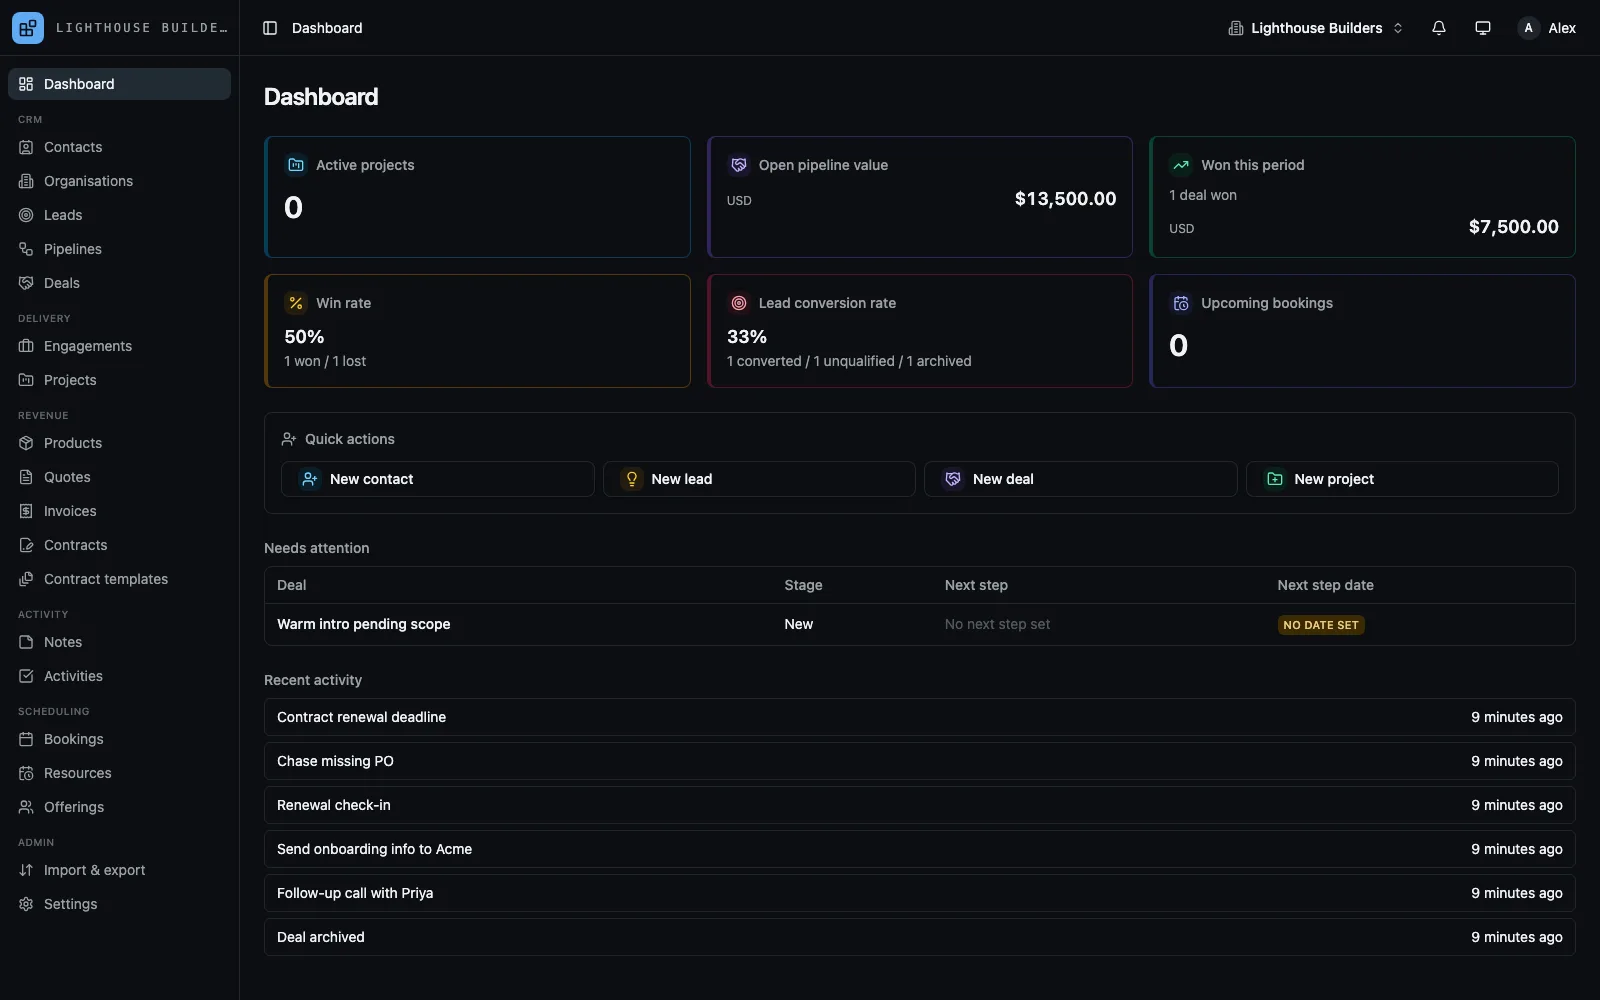
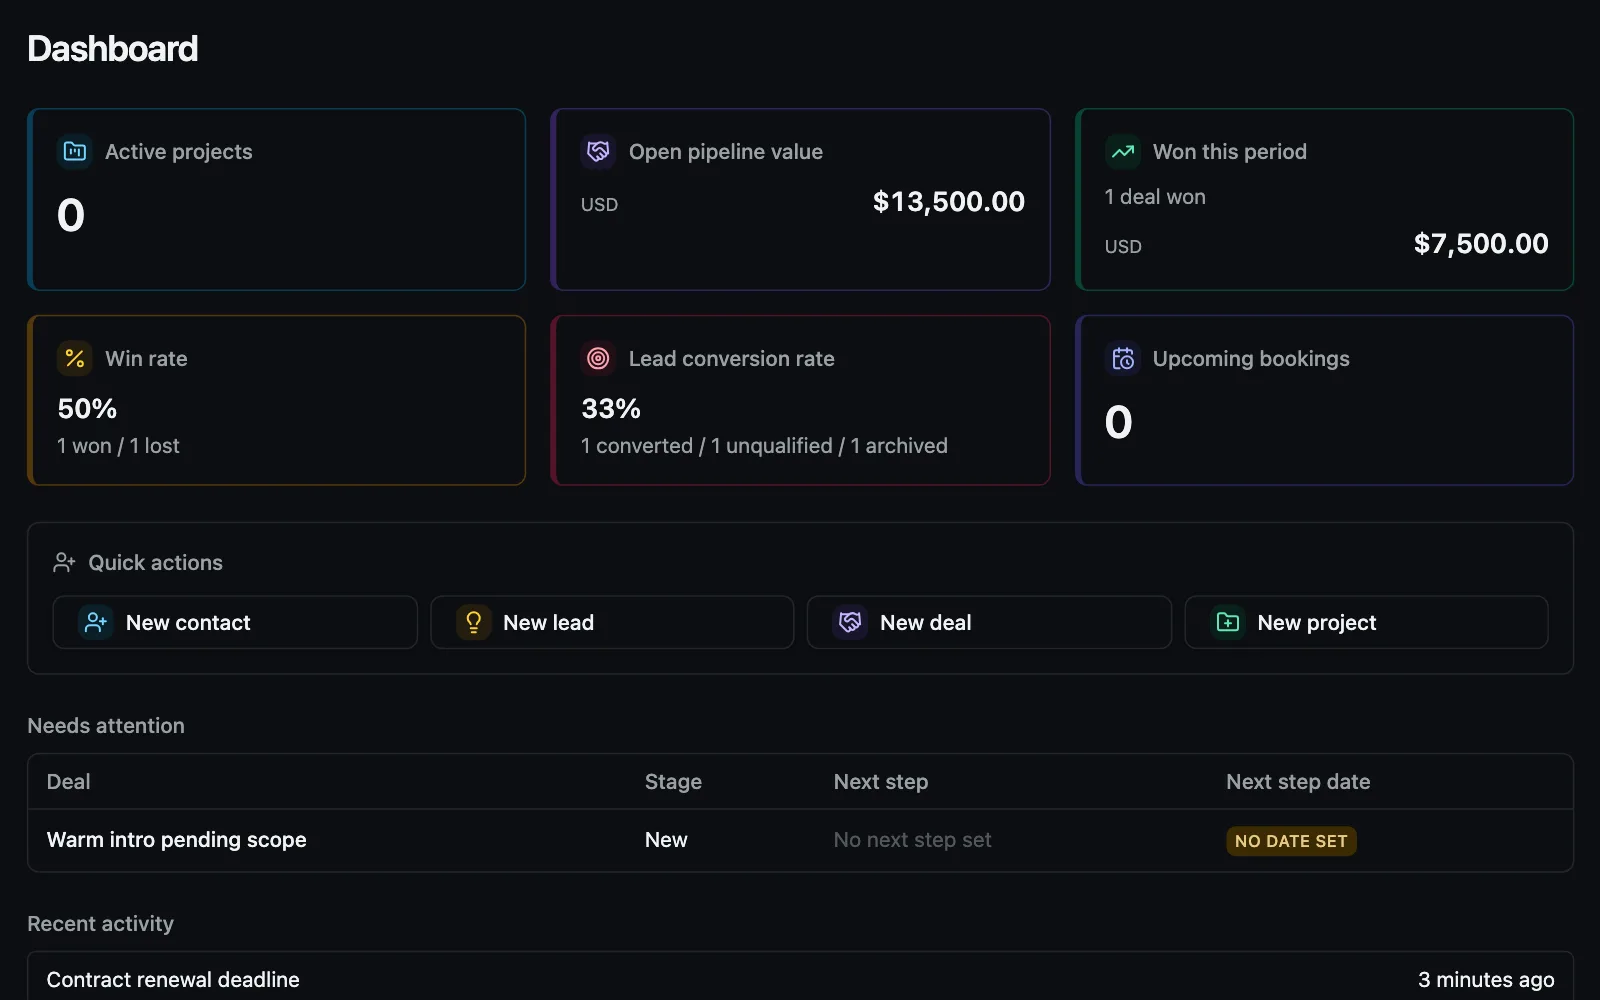
feat: zoom WriterIX and Veci CRM covers for small cards; unfeature DocMind
Crop both covers to a single panel at ~1.5x (pipeline progress + token
usage; dashboard KPI widgets) so they hold up on a 375px card, still
1600x1000. The capture script refuses WriterIX runs that show demo-mode
"fake/" model labels. DocMind moves to the More builds list.

diff --git a/data/projects.ts b/data/projects.ts
@@ -212,7 +212,7 @@ export const projects: Project[] = [
     category: 'platform',
     githubUrl: 'https://github.com/codedsultan/docmind',
     liveUrl: null,
-    isFeatured: true,
+    isFeatured: false,
     sortOrder: 4,
     year: '2025–present',
     role: 'Creator & AI Engineer',
@@ -311,10 +311,10 @@ export const projects: Project[] = [
     websiteUrl: 'https://crm.xurl.fyi/',
     demoUrl: 'https://demo-crm.xurl.fyi/',
     // Captured per docs/project-screenshots.md (scripts/capture-screenshots.mjs),
-    // from a local install seeded with fictional demo data.
+    // from a local install seeded with fictional demo data, cropped to ~1.5x.
     cover: {
       src: '/images/projects/veci-crm/cover.webp',
-      alt: 'Veci CRM dashboard for a demo workspace: KPI tiles for open pipeline value, deals won this period, win rate, lead conversion rate and upcoming bookings, quick actions for new contact, lead, deal and project, a needs-attention deal list and recent activity, with the sidebar of CRM, delivery, revenue and scheduling sections',
+      alt: 'Veci CRM dashboard, close up: KPI tiles for active projects, open pipeline value ($13,500), won this period ($7,500), win rate (50%), lead conversion rate (33%) and upcoming bookings, quick-action buttons for a new contact, lead, deal or project, and a needs-attention deal list',
       width: 1600,
       height: 1000,
     },
@@ -359,10 +359,10 @@ export const projects: Project[] = [
     websiteUrl: 'https://writerix.xurl.fyi/',
     demoUrl: 'https://demo-writerix.xurl.fyi/',
     // Captured per docs/project-screenshots.md (scripts/capture-screenshots.mjs),
-    // from a local demo-mode stack (AI calls simulated).
+    // from a local demo-mode stack (AI calls simulated), cropped to ~1.5x.
     cover: {
       src: '/images/projects/writerix/cover.webp',
-      alt: 'WriterIX run paused for final-draft review in a demo workspace: the progress list steps through research, outline, five parallel section drafts, two editor review rounds, SEO metadata, social captions and rendered graphics, beside a usage panel listing tokens per step and model',
+      alt: 'WriterIX run detail, close up: a progress list of pipeline steps (research, outline, five section drafts, two editor review rounds with scores, SEO metadata, social captions, graphic text and rendered graphics, then waiting for final-draft review) beside a usage panel showing 8,695 tokens with the Claude model and token count for each step',
       width: 1600,
       height: 1000,
     },

diff --git a/docs/project-screenshots.md b/docs/project-screenshots.md
@@ -11,8 +11,8 @@ Each image needs `src`, `alt`, `width` and `height` (the real pixel size of the 
 
 ## Capture checklist
 
-1. Capture public pages from the deployed app. Anything behind a login whose deployed instance holds real data (Veci CRM, WriterIX, InnerMost) is captured from a local stack with seeded demo data or test accounts instead; `scripts/capture-screenshots.mjs` refuses non-localhost URLs for those.
-2. Cover: exactly 16:10, 1600x1000. Cards crop to 16:10 from the top, so keep the important content in the upper part.
+1. Capture public pages from the deployed app. Anything behind a login whose deployed instance holds real data (Veci CRM, WriterIX, InnerMost) is captured from a local stack with seeded demo data or test accounts instead; `scripts/capture-screenshots.mjs` refuses non-localhost URLs for those. WriterIX's demo mode labels usage rows `fake/<model>`; strip that prefix in the local demo database (`update billing_usageevent set model = substring(model from 6) where model like 'fake/%'`) and stop its beat/worker containers before capturing, or the script refuses.
+2. Cover: exactly 16:10, 1600x1000. For dense app screens, crop to one panel at about 1.5x (the WriterIX and Veci covers do) so text stays readable on a 375px-wide card. Cards crop to 16:10 from the top, so keep the important content in the upper part.
 3. Screenshots: 1600 px wide is plenty. Any height works on the project page.
 4. Export as WebP, aim for under 150 KB each.
 5. Before capturing, check the frame for: tokens, API keys, emails, cookie banners, real customer data, admin URLs.
